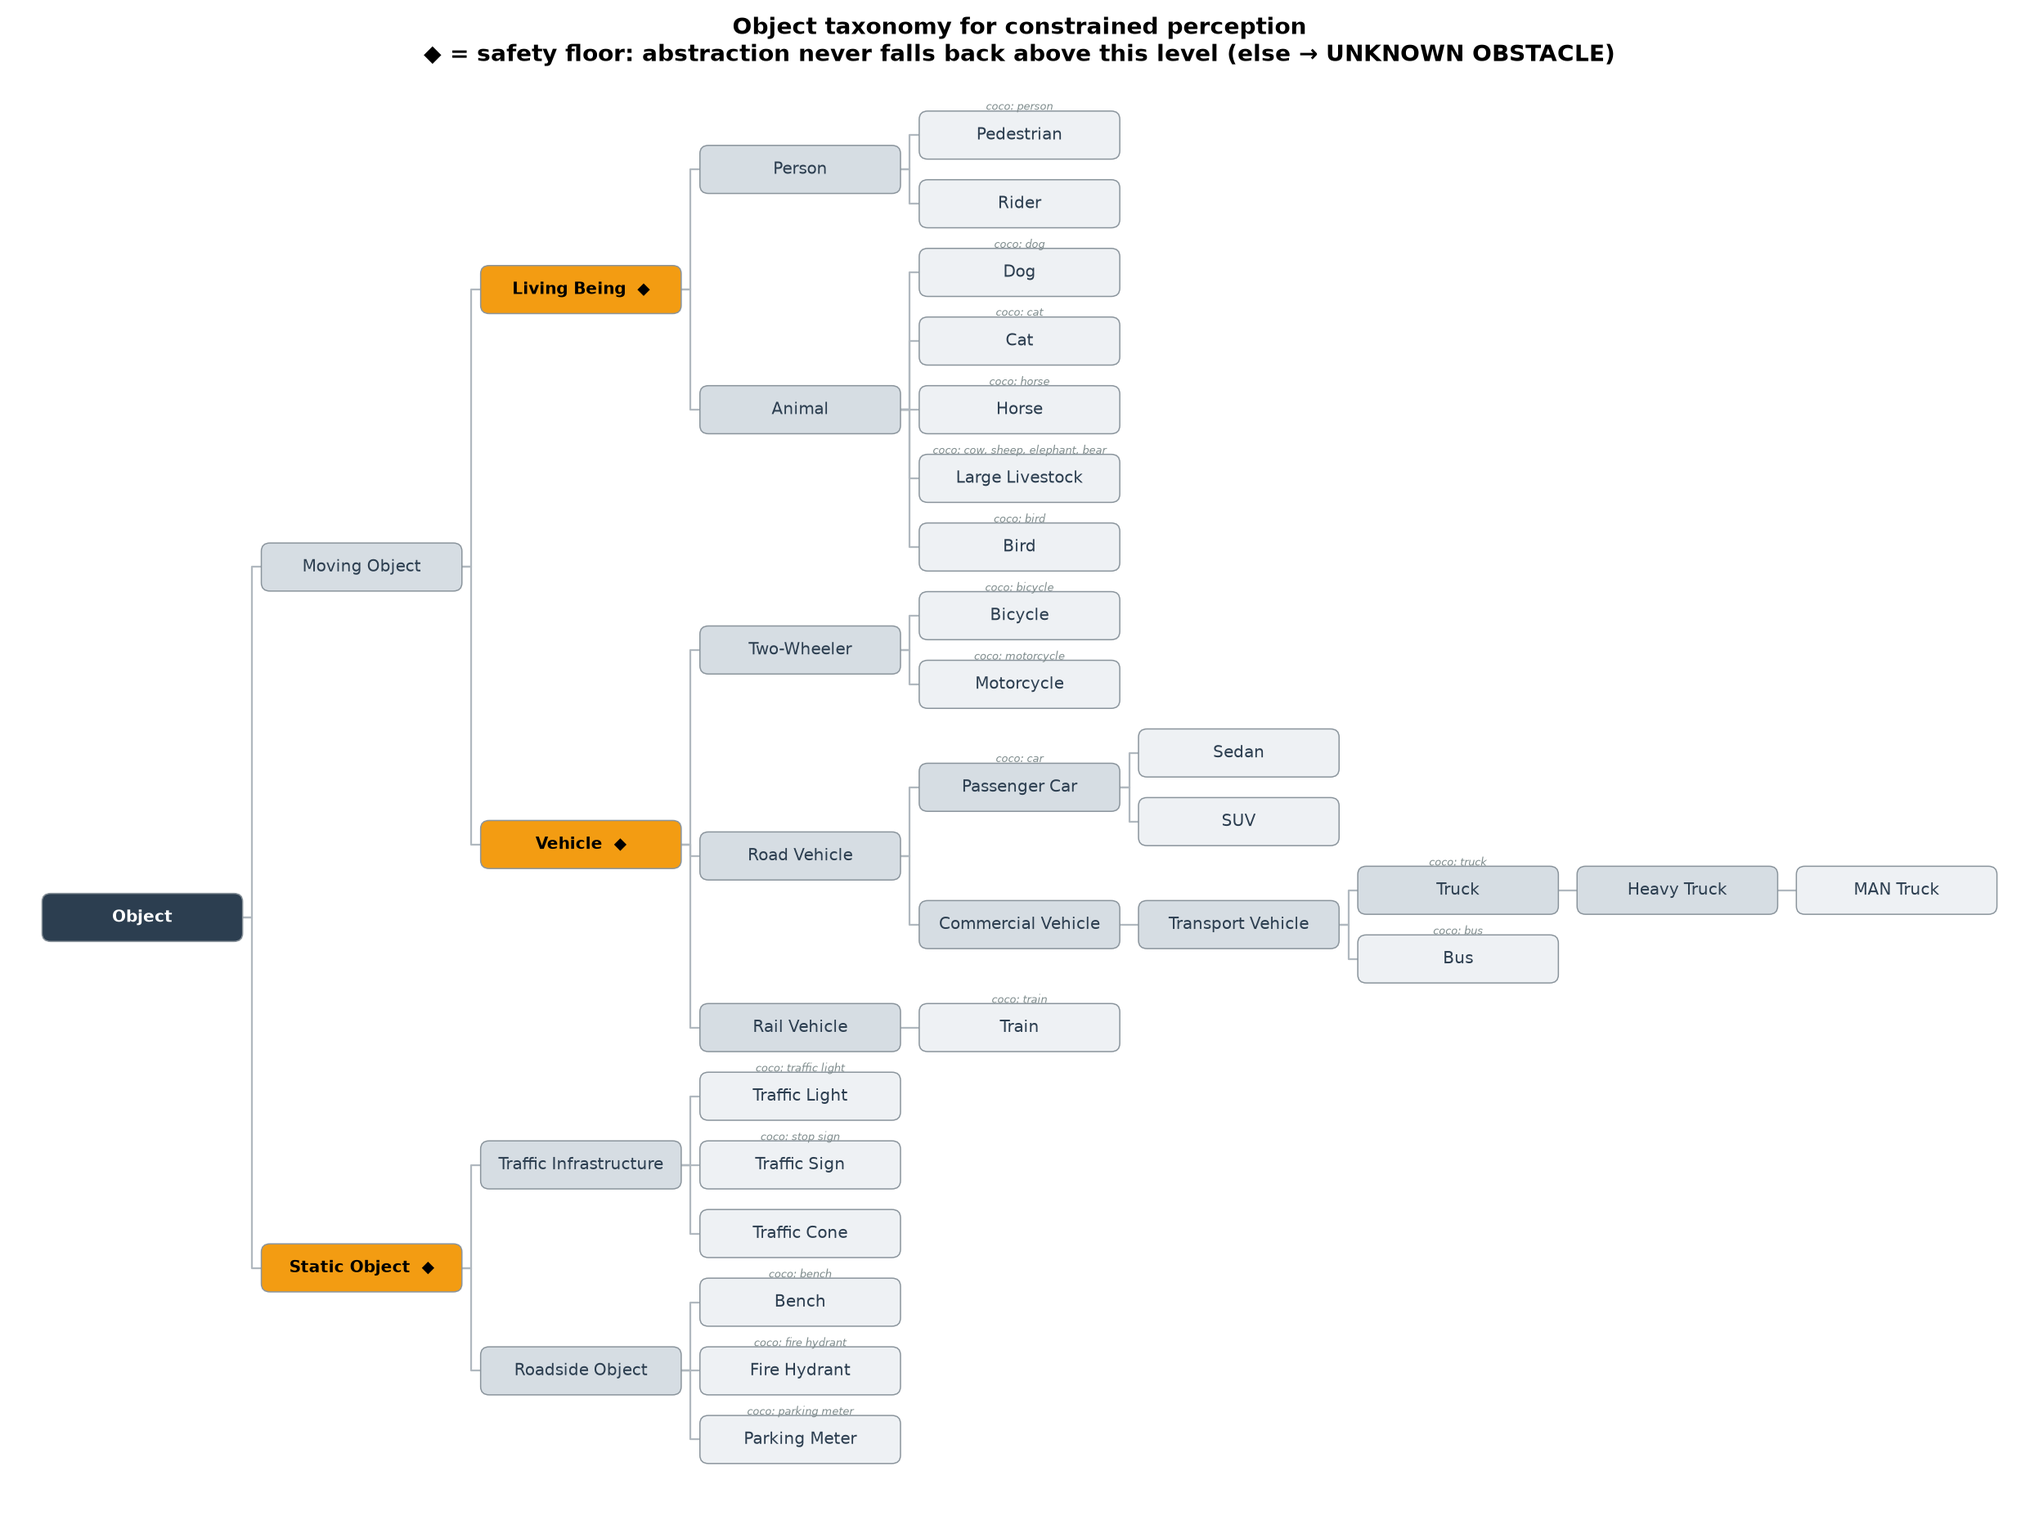
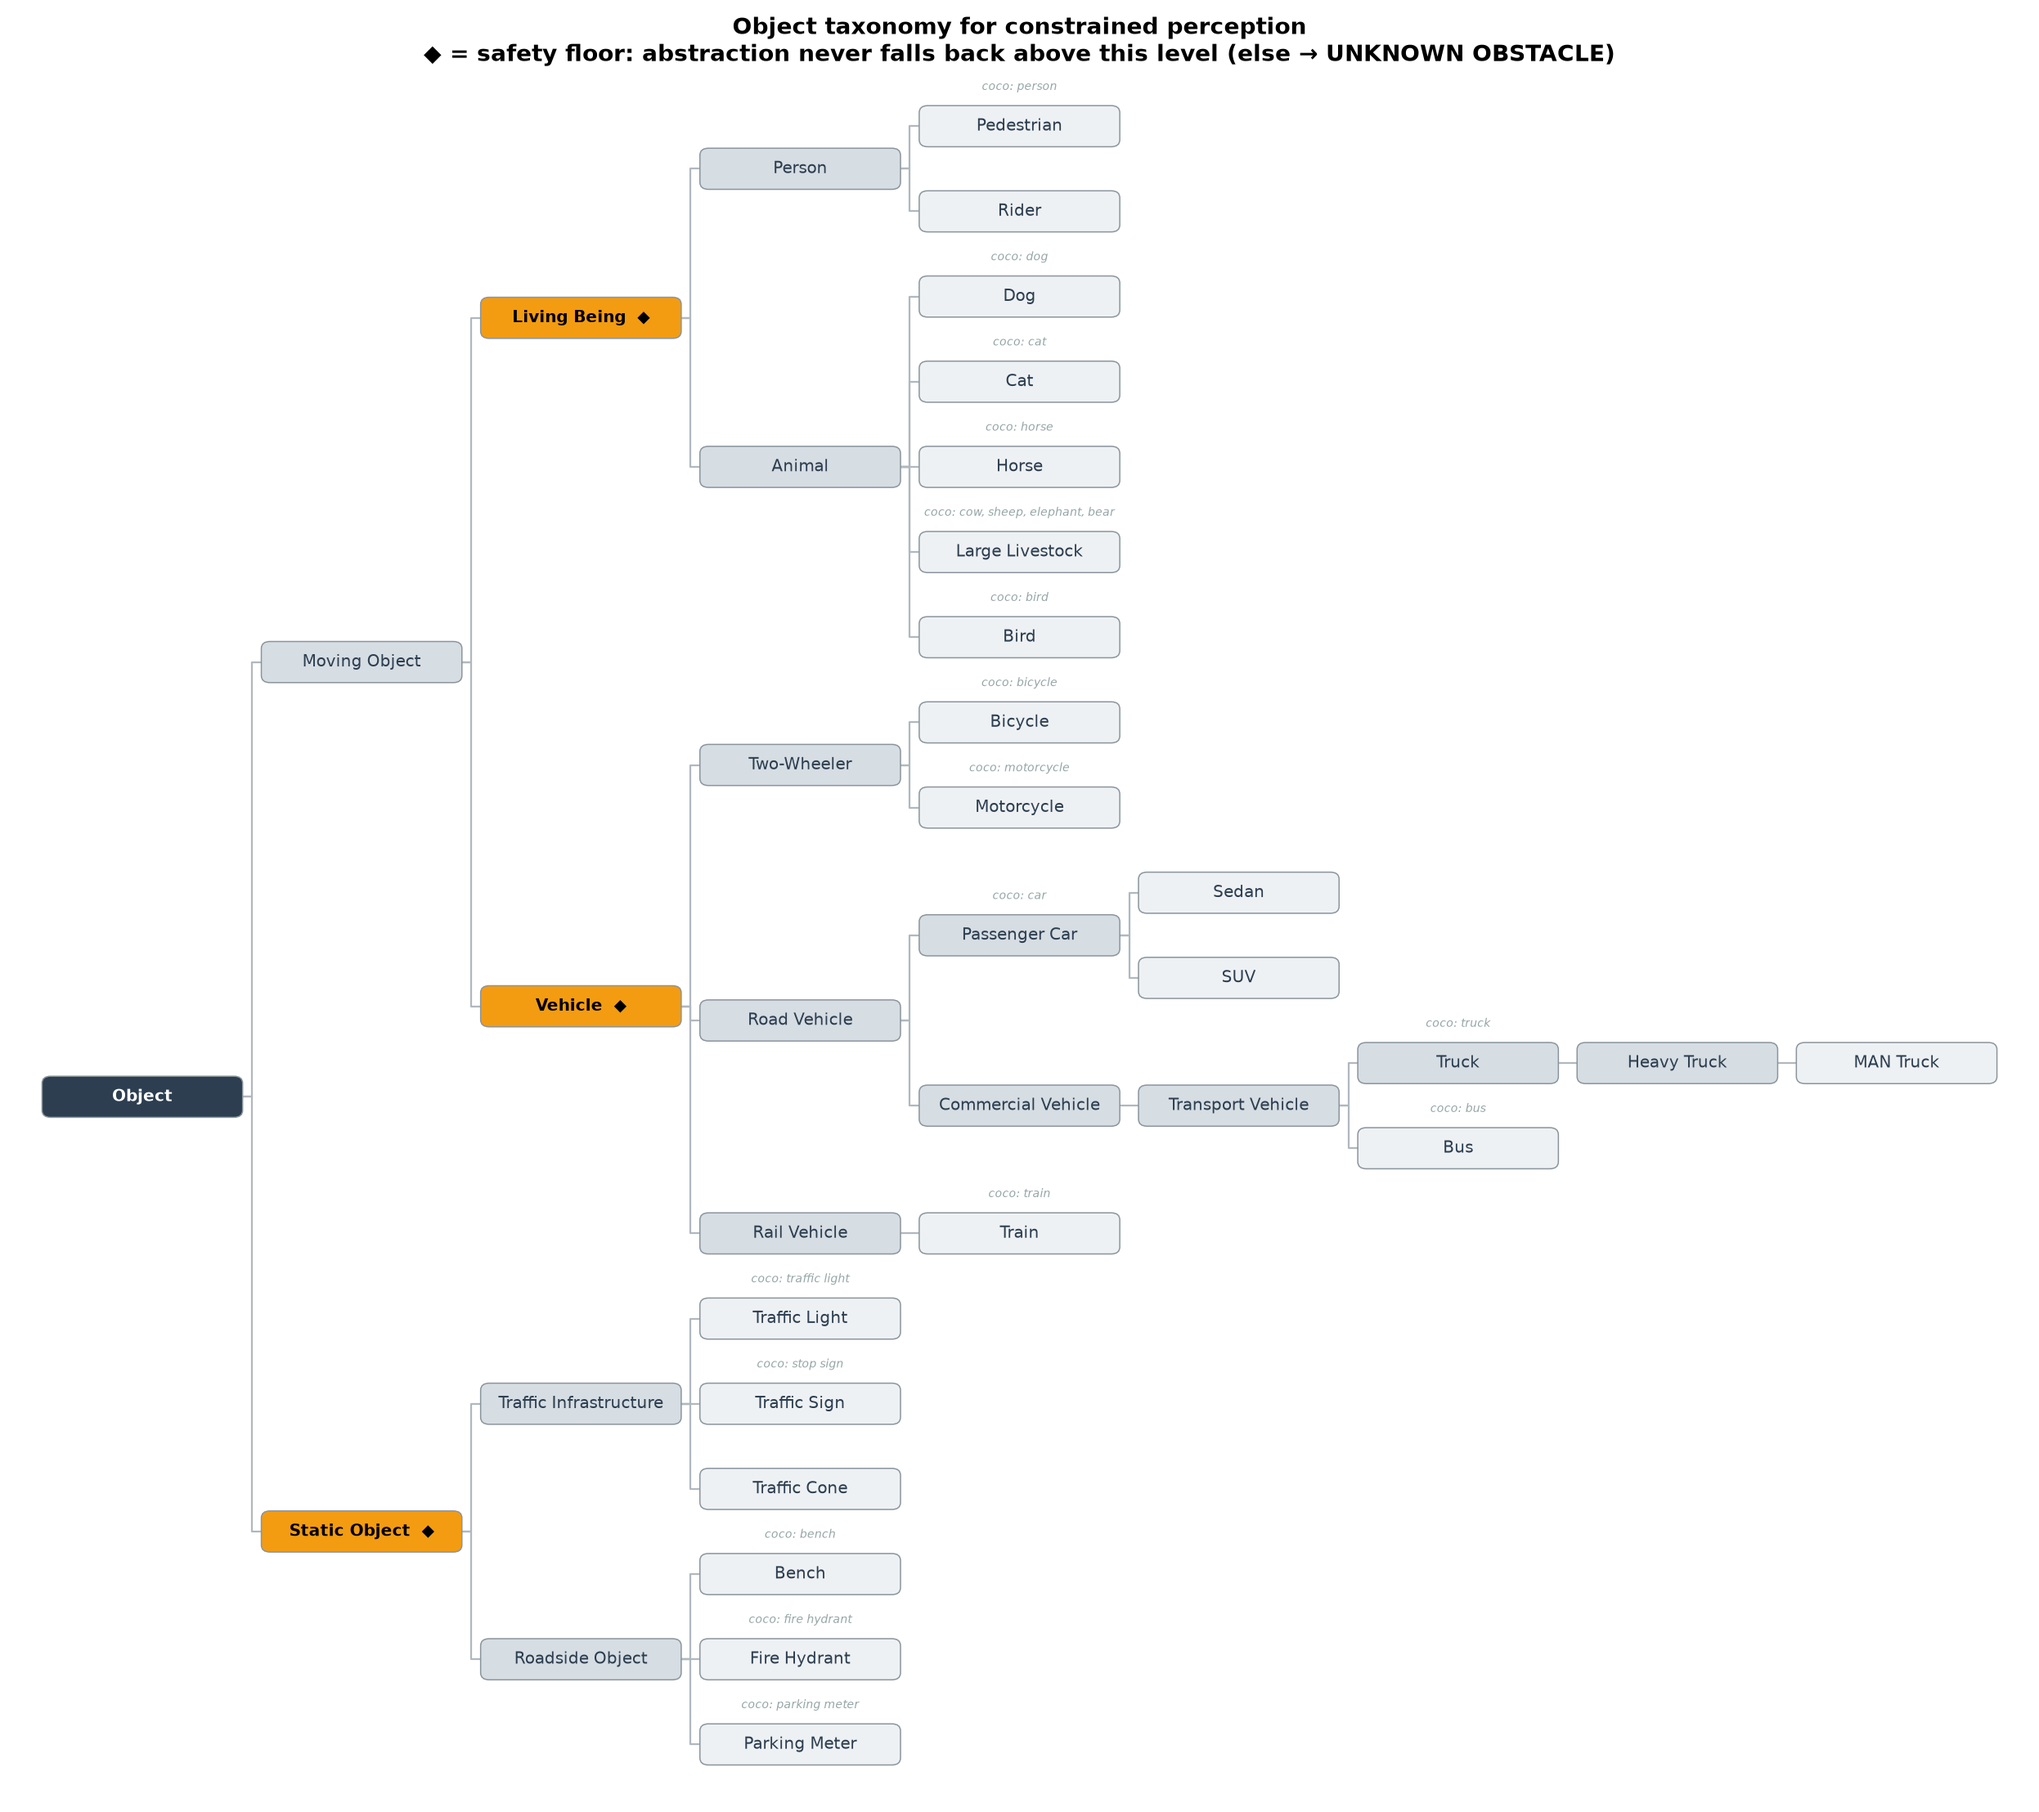
Fix taxonomy figure spacing: wider row pitch, more gap for coco captions
Increase leaf row pitch (LEAF_STEP) and the box-to-caption gap so the "coco:"
labels no longer collide with the boxes; scale figure height to the actual
y-extent.

diff --git a/scripts/make_taxonomy_figure.py b/scripts/make_taxonomy_figure.py
@@ -28,6 +28,8 @@ OUT.mkdir(exist_ok=True)
 COL_W = 3.05        # horizontal distance between levels
 BOX_W = 2.75        # node box width
 BOX_H = 0.66        # node box height
+LEAF_STEP = 1.45    # vertical distance between adjacent leaves (row pitch)
+COCO_GAP = 0.24     # gap between a leaf box and its "coco:" caption
 ROOT_C = "#2c3e50"
 FLOOR_C = "#f39c12"
 LEAF_C = "#eef1f4"
@@ -38,7 +40,7 @@ def layout(node: Node, depth: int, counter: list[int], pos: dict):
     x = depth * COL_W
     if node.is_leaf:
         y = counter[0]
-        counter[0] += 1
+        counter[0] += LEAF_STEP
     else:
         ys = [layout(c, depth + 1, counter, pos) for c in node.children]
         y = sum(ys) / len(ys)
@@ -52,8 +54,9 @@ def draw(tax: Taxonomy):
 
     n_leaves = sum(1 for _ in (n for n in tax.iter_nodes() if n.is_leaf))
     max_depth = tax.max_depth
+    y_extent = max(p[1] for p in pos.values()) - min(p[1] for p in pos.values())
     fig_w = (max_depth + 1) * 1.55
-    fig_h = max(6, n_leaves * 0.52)
+    fig_h = max(6, (y_extent + 2) * 0.42)
     fig, ax = plt.subplots(figsize=(fig_w, fig_h))
 
     # connectors first (behind boxes)
@@ -85,9 +88,9 @@ def draw(tax: Taxonomy):
                 fontsize=8.2, color=txt, fontweight=weight, zorder=3)
         # tiny COCO hint under leaves that map to a detector class
         if node.coco:
-            ax.text(x + BOX_W / 2, y - BOX_H / 2 - 0.16,
-                    "coco: " + ", ".join(node.coco), ha="center", va="top",
-                    fontsize=5.4, color="#7f8c8d", style="italic", zorder=3)
+            ax.text(x + BOX_W / 2, y - BOX_H / 2 - COCO_GAP,
+                    "coco: " + ", ".join(node.coco), ha="center", va="bottom",
+                    fontsize=5.6, color="#95a5a6", style="italic", zorder=3)
 
     xs = [p[0] for p in pos.values()]
     ys = [p[1] for p in pos.values()]
